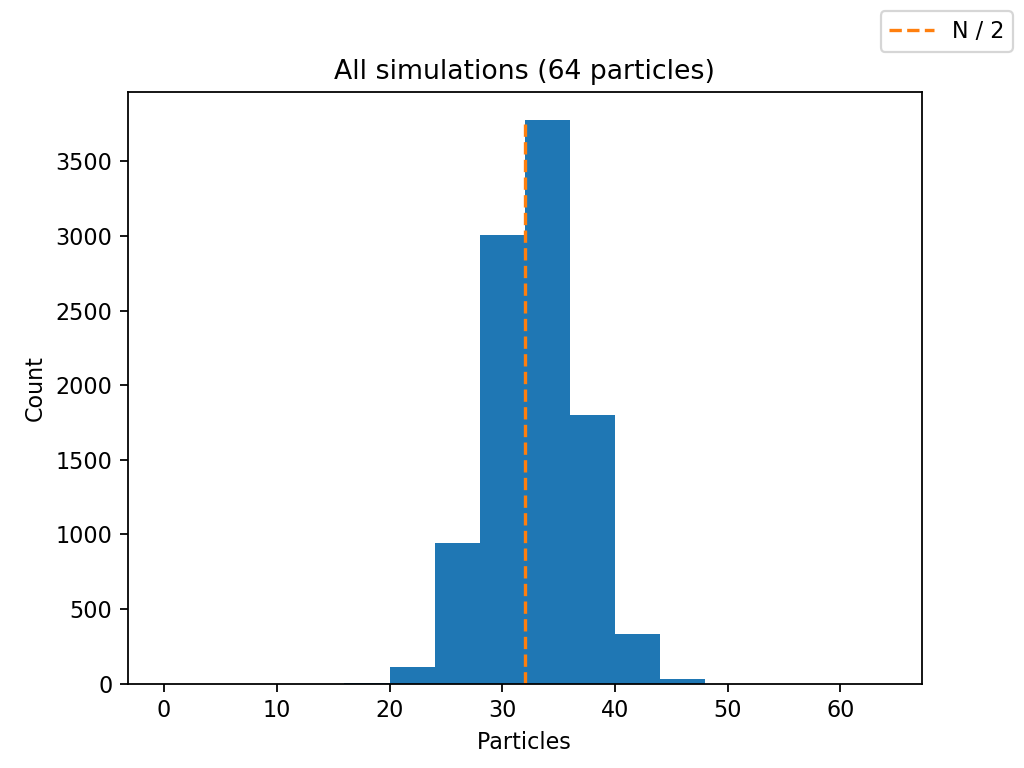
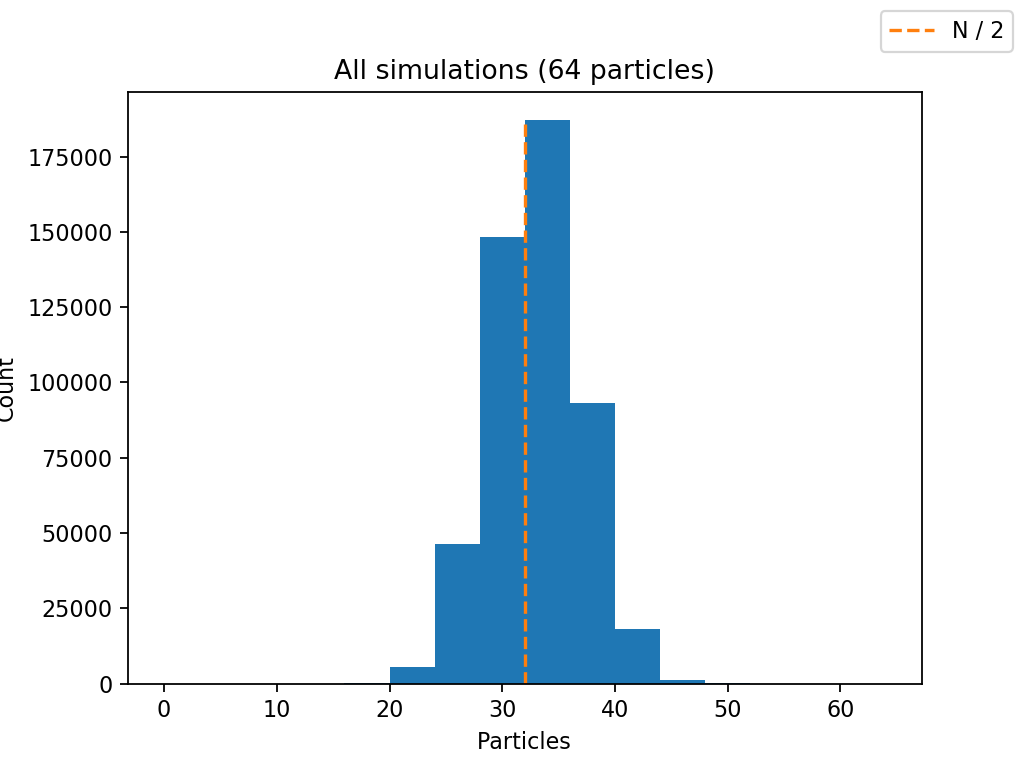
Plots

diff --git a/tasks/task3/3_1.py b/tasks/task3/3_1.py
@@ -109,6 +109,6 @@ def runForParticleCount(
     print("Completed {0}".format(particleCount))
 
 
-runForParticleCount(80, bins=20)
-runForParticleCount(64, bins=16)
+runForParticleCount(80, bins=21)
+runForParticleCount(64, bins=17)
 runForParticleCount(8, bins=np.linspace(-0.5, 8.5, 10))
